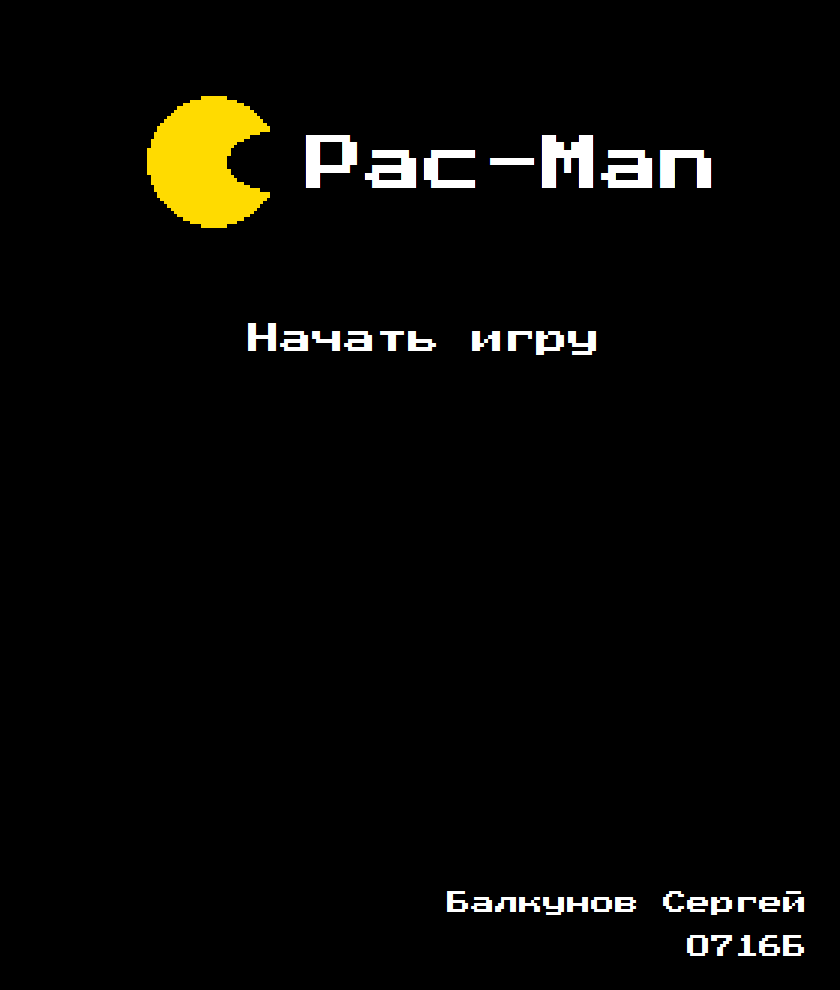
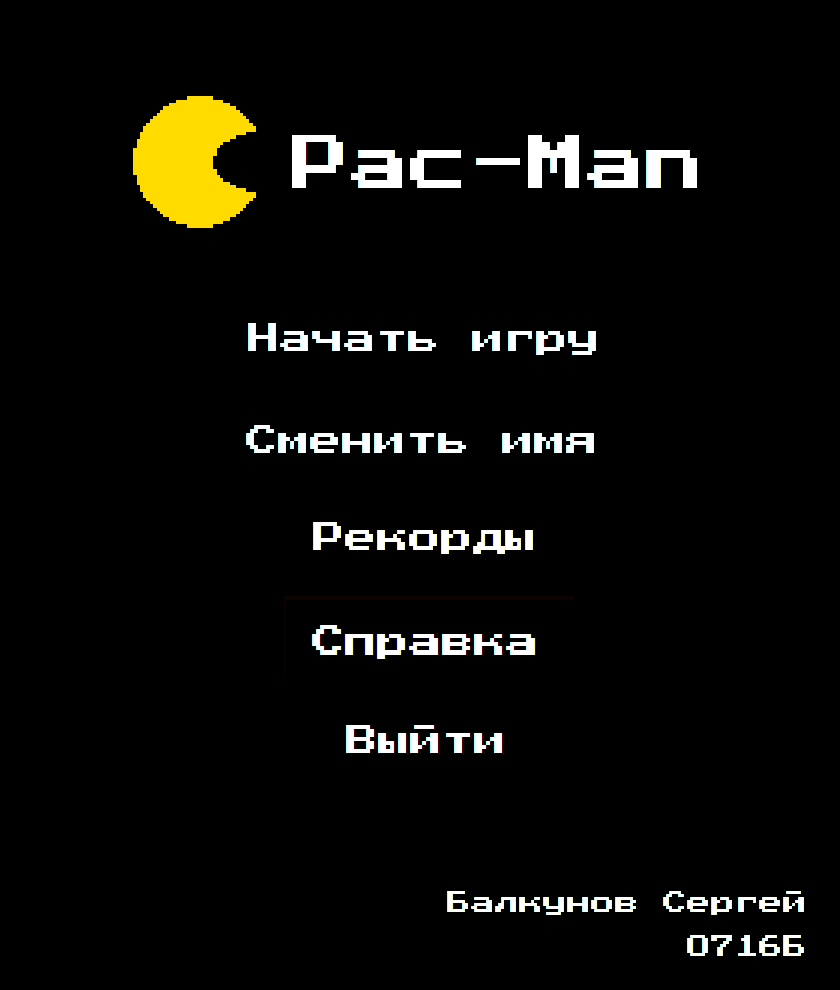
main menu finished

diff --git a/Game.cpp b/Game.cpp
@@ -20,6 +20,8 @@ bool in_game = false;
 bool entering_name = false;
 bool in_main_menu = false;
 bool paused = false;
+bool in_records = false;
+bool in_help_page = false;
 
 int playerNameSize = 0;
 int nameBoxWidth = 0;
@@ -39,9 +41,20 @@ Page* loadingScreen;
 Page* nameScreen;
 Page* pauseScreen;
 Page* mainMenu;
+Page* recordsScreen;
+Page* helpScreen;
 
-Button* startGame;
+Button* startGameButton;
+Button* changePlayerButton;
+Button* recordsButton;
+Button* helpButton;
+Button* exitMenuButton;
+
 GameObject* startGameButtonBorder;
+GameObject* changePlayerButtonBorder;
+GameObject* recordsButtonBorder;
+GameObject* helpButtonBorder;
+GameObject* exitMenuButtonBorder;
 
 GameObject* lives_list[3];
 
@@ -81,20 +94,38 @@ void Game::init(const char *title, int xPos, int yPos, int width, int height) {
     for (int i = 0; i < 4; ++i) ghosts[i] = new Ghost(i+1);
 
     playerNameBox = new TextObject("../fonts/ka1.ttf", 30, 0, 0);
+    nameBorder = new GameObject("../assets/NameBox.png", 0, 0);
 
     score = new TextObject("../fonts/ka1.ttf", 30, 0, 0);
     Lives = new TextObject("../fonts/ka1.ttf", 30, 0, 0);
 
     loadingScreen = new Page("../assets/LoadingScreen.png");
     nameScreen = new Page("../assets/NameScreen.png");
-    nameBorder = new GameObject("../assets/NameBox.png", 0, 0);
-    pauseScreen = new Page("../assets/NameScreen.png");
+    pauseScreen = new Page("../assets/PauseScreen.png");
     mainMenu = new Page("../assets/MainMenu.png");
+    recordsScreen = new Page("../assets/RecordsScreen.png");
+    helpScreen = new Page("../assets/HelpScreen.png");
 
-    SDL_Rect r{100, 300, 400, 80};
-    startGame = new Button(r);
+    SDL_Rect rStart{100, 300, 400, 80};
+    startGameButton = new Button(rStart);
+
+    SDL_Rect rChangePlayer{100, 400, 400, 80};
+    changePlayerButton = new Button(rChangePlayer);
+
+    SDL_Rect rRecords{100, 500, 400, 80};
+    recordsButton = new Button(rRecords);
+
+    SDL_Rect rHelp{100, 600, 400, 80};
+    helpButton = new Button(rHelp);
+
+    SDL_Rect rExit{100, 700, 400, 80};
+    exitMenuButton = new Button(rExit);
+
     startGameButtonBorder = new GameObject("../assets/MainMenuButtonBox.png", 0, 0);
-
+    changePlayerButtonBorder = new GameObject("../assets/MainMenuButtonBox.png", 0, 0);
+    recordsButtonBorder = new GameObject("../assets/MainMenuButtonBox.png", 0, 0);
+    helpButtonBorder = new GameObject("../assets/MainMenuButtonBox.png", 0, 0);
+    exitMenuButtonBorder = new GameObject("../assets/MainMenuButtonBox.png", 0, 0);
     map = new Map();
 }
 
@@ -140,20 +171,37 @@ void Game::handleEvents() {
             default: break;
         }
     }
-    if (in_main_menu) {
+
+    else if (in_main_menu) {
         switch (event.type) {
             case SDL_MOUSEBUTTONDOWN: {
                 if (event.button.button == SDL_BUTTON_LEFT) {
-                    if (startGame->checkIfPressed(event.button.x, event.button.y)) {
+                    if (startGameButton->checkIfPressed(event.button.x, event.button.y)) {
                         in_main_menu = false;
                         in_game = true;
+                    }
+                    if (changePlayerButton->checkIfPressed(event.button.x, event.button.y)) {
+                        in_main_menu = false;
+                        entering_name = true;
+                    }
+                    if (recordsButton->checkIfPressed(event.button.x, event.button.y)) {
+                        in_main_menu = false;
+                        in_records = true;
+                    }
+                    if (helpButton->checkIfPressed(event.button.x, event.button.y)) {
+                        in_main_menu = false;
+                        in_help_page = true;
+                    }
+                    if (exitMenuButton->checkIfPressed(event.button.x, event.button.y)) {
+                        in_main_menu = false;
+                        isRunning = false;
                     }
                 }
             } break;
         }
     }
 
-    if (in_game) {
+    else if (in_game) {
             switch (event.type) {
                 case SDL_KEYDOWN: {
                     switch (event.key.keysym.sym) {
@@ -171,18 +219,54 @@ void Game::handleEvents() {
                             if (in_game) player->SetDirection(4);
                             break;
                         case SDLK_ESCAPE: {
-                            if (in_game) {
-                                in_game = false;
-                                paused = true;
-                            } else {
-                                in_game = true;
-                                paused = false;
-                            }
+                            in_game = false;
+                            paused = true;
+                            std::cout << in_game << " " << paused << '\n';
                         } break;
                     }
-                }
+                } break;
             }
         }
+    
+    else if (in_records) {
+        switch (event.type) {
+            case SDL_KEYDOWN: {
+                switch (event.key.keysym.sym) {
+                    case SDLK_ESCAPE: {
+                        in_records = false;
+                        in_main_menu = true;
+                        paused = false;
+                    } break;
+                }
+            } break;
+        }
+    }
+    
+    else if (paused) {
+        switch (event.type) {
+            case SDL_KEYDOWN: {
+                switch (event.key.keysym.sym) {
+                    case SDLK_ESCAPE: {
+                            paused = false;
+                            in_game = true;
+                    }
+                }
+            } break;
+        }
+    }
+
+    else if (in_help_page) {
+        switch (event.type) {
+            case SDL_KEYDOWN: {
+                switch (event.key.keysym.sym) {
+                    case SDLK_ESCAPE: {
+                        in_help_page = false;
+                        in_main_menu = true;
+                    } break;
+                }
+            } break;
+        }
+    }
 }
 
 void Game::update() {
@@ -216,12 +300,15 @@ void Game::update() {
     Lives->Update(50, 180, 40, 925, "LIFES: ");
     playerNameBox->Update(60, nameBoxWidth, 420-nameBoxWidth/2, 465, playerName);
     nameBorder->Update(80, 660, 0, 0, 80, 670, 82, 451);
+
     startGameButtonBorder->Update(80, 400, 0, 0, 80, 400, 220, 300);
+    changePlayerButtonBorder->Update(80, 400, 0, 0, 80, 400, 220, 400);
+    recordsButtonBorder->Update(80, 400, 0, 0, 80, 400, 220, 500);
+    helpButtonBorder->Update(80, 400, 0, 0, 80, 400, 220, 600);
+    exitMenuButtonBorder->Update(80, 400, 0, 0, 80, 400, 220, 700);
 
     if (firstScreenTime) firstScreenTime--;
     if (playerNameSize == 0) entering_name = true;
-    if (!entering_name && !in_main_menu && !paused) in_game = true;
-
 }
 
 void Game::render() {
@@ -253,6 +340,16 @@ void Game::render() {
     else if (in_main_menu) {
         mainMenu->ShowPage();
         startGameButtonBorder->Render();
+        changePlayerButtonBorder->Render();
+        recordsButtonBorder->Render();
+        helpButtonBorder->Render();
+        exitMenuButtonBorder->Render();
+    }
+    else if (in_records) {
+        recordsScreen->ShowPage();
+    }
+    else if (in_help_page) {
+        helpScreen->ShowPage();
     }
     SDL_RenderPresent(renderer);
 }
